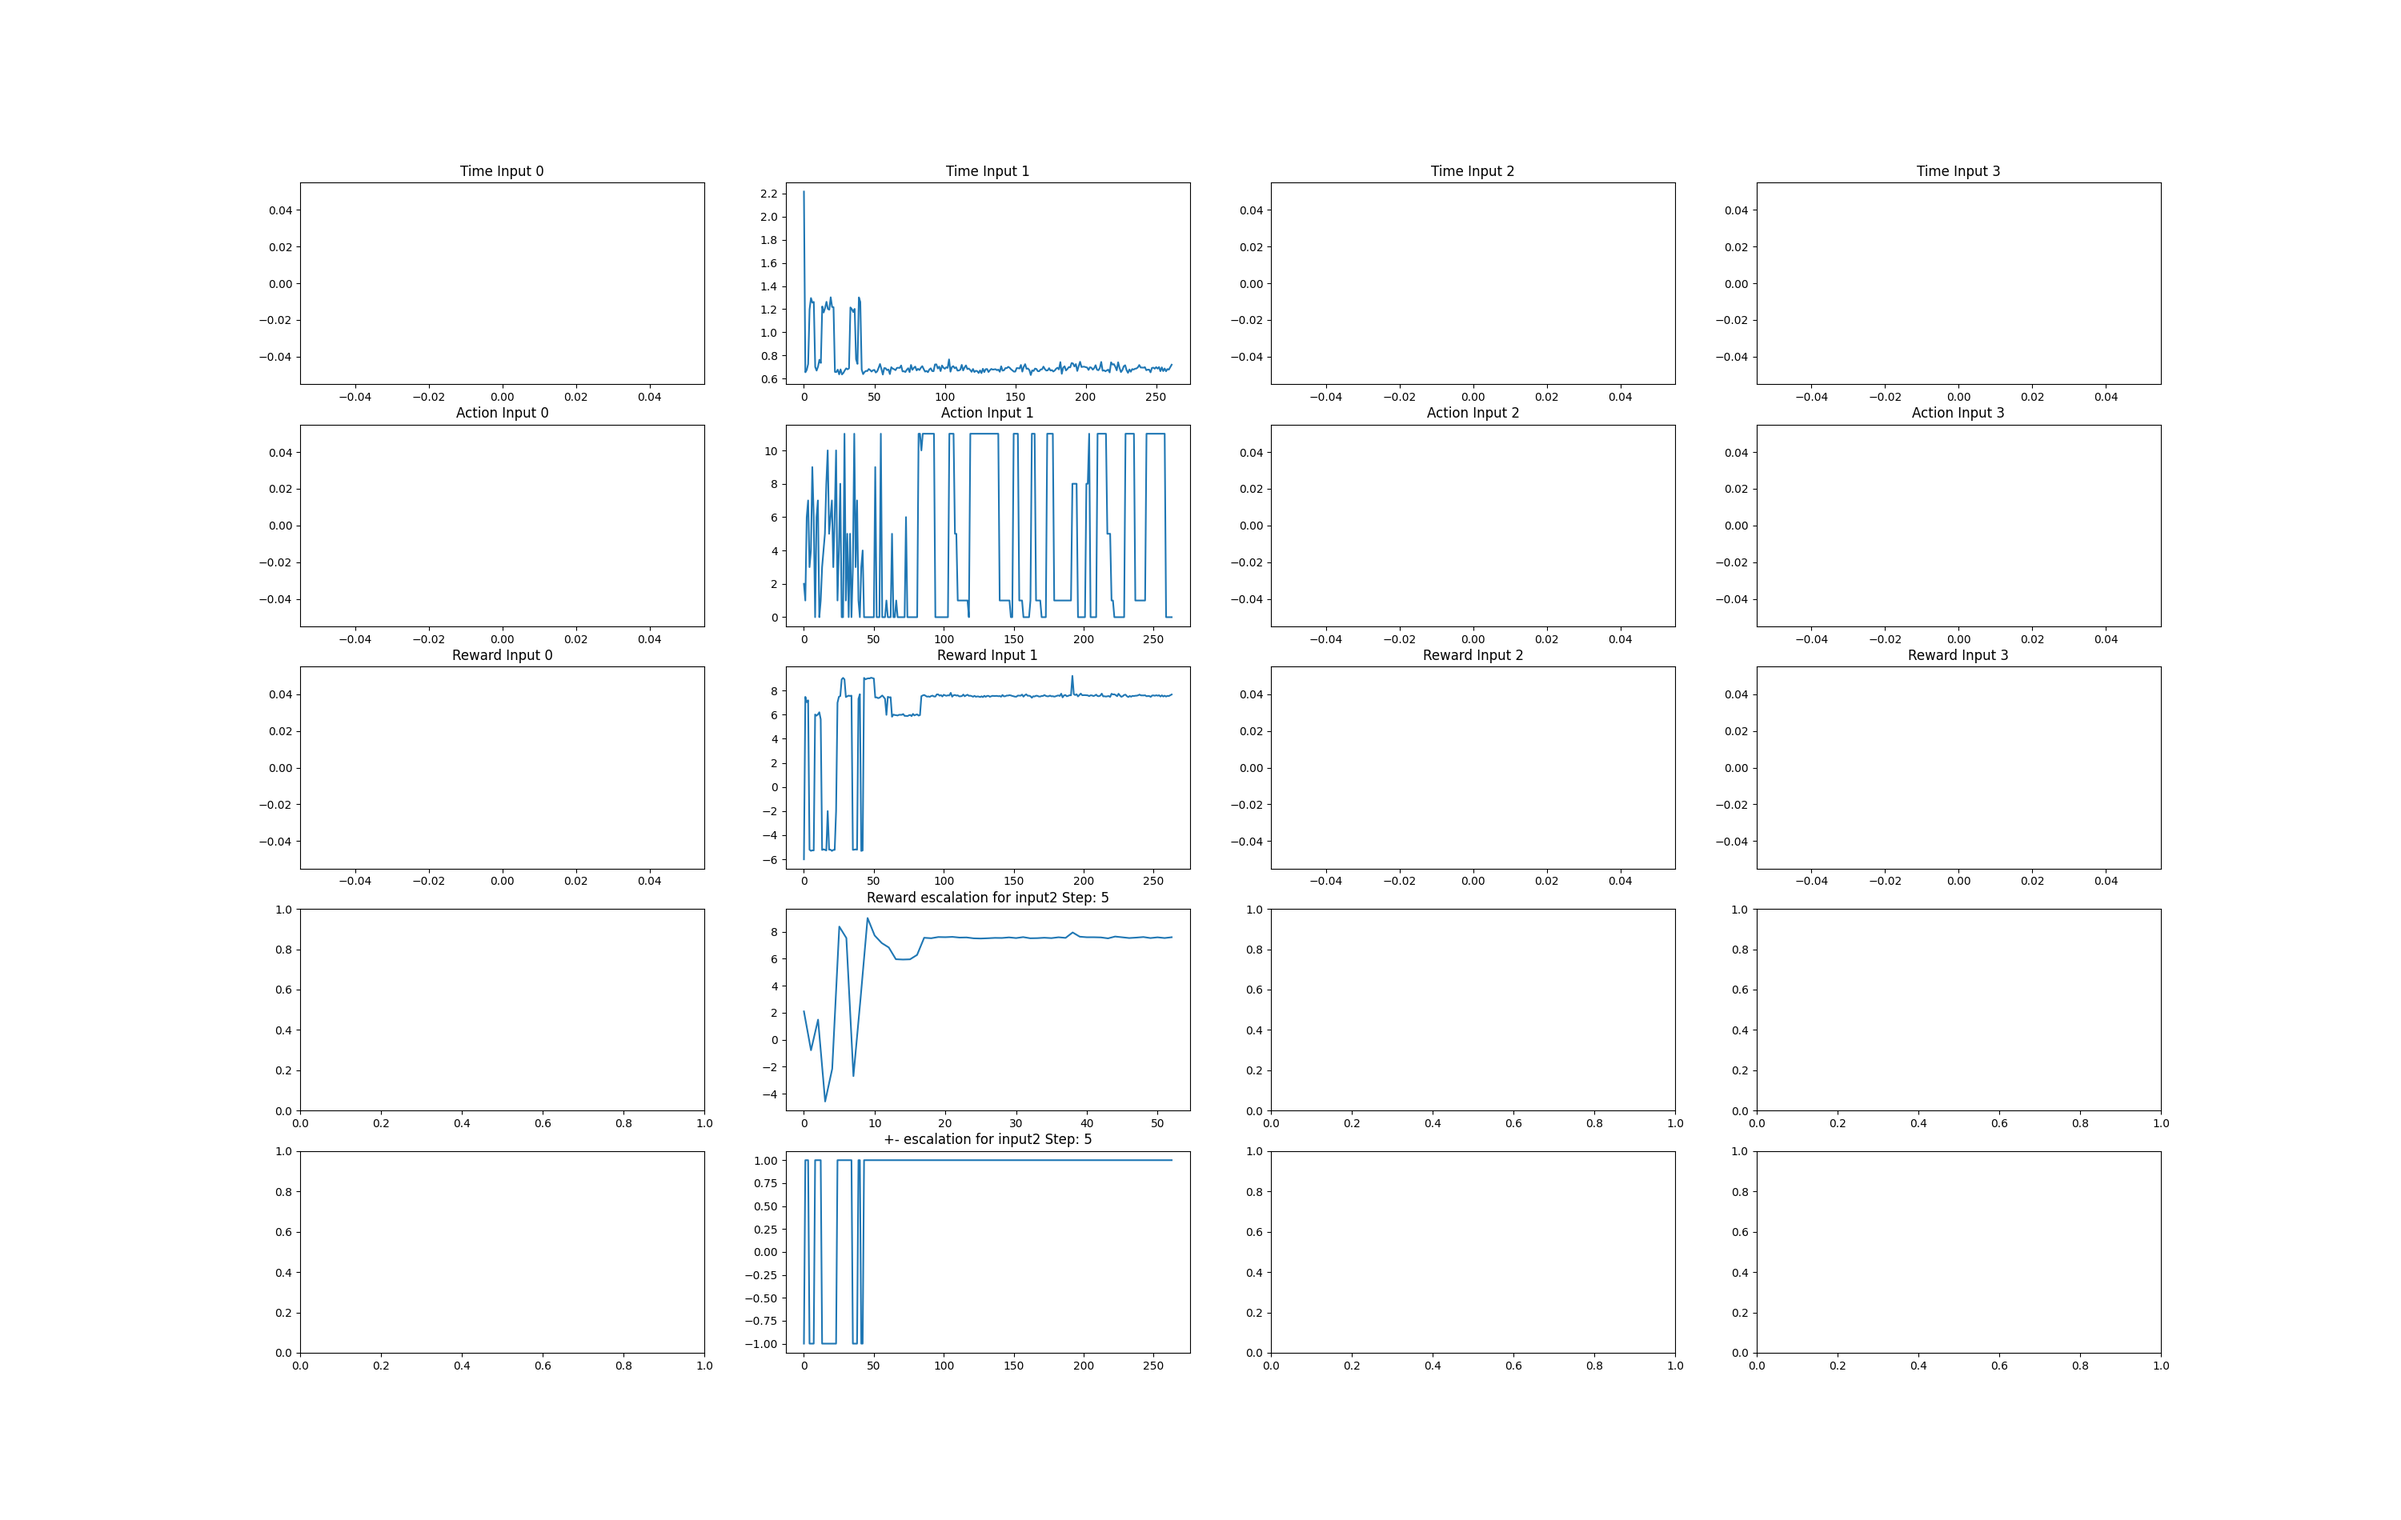
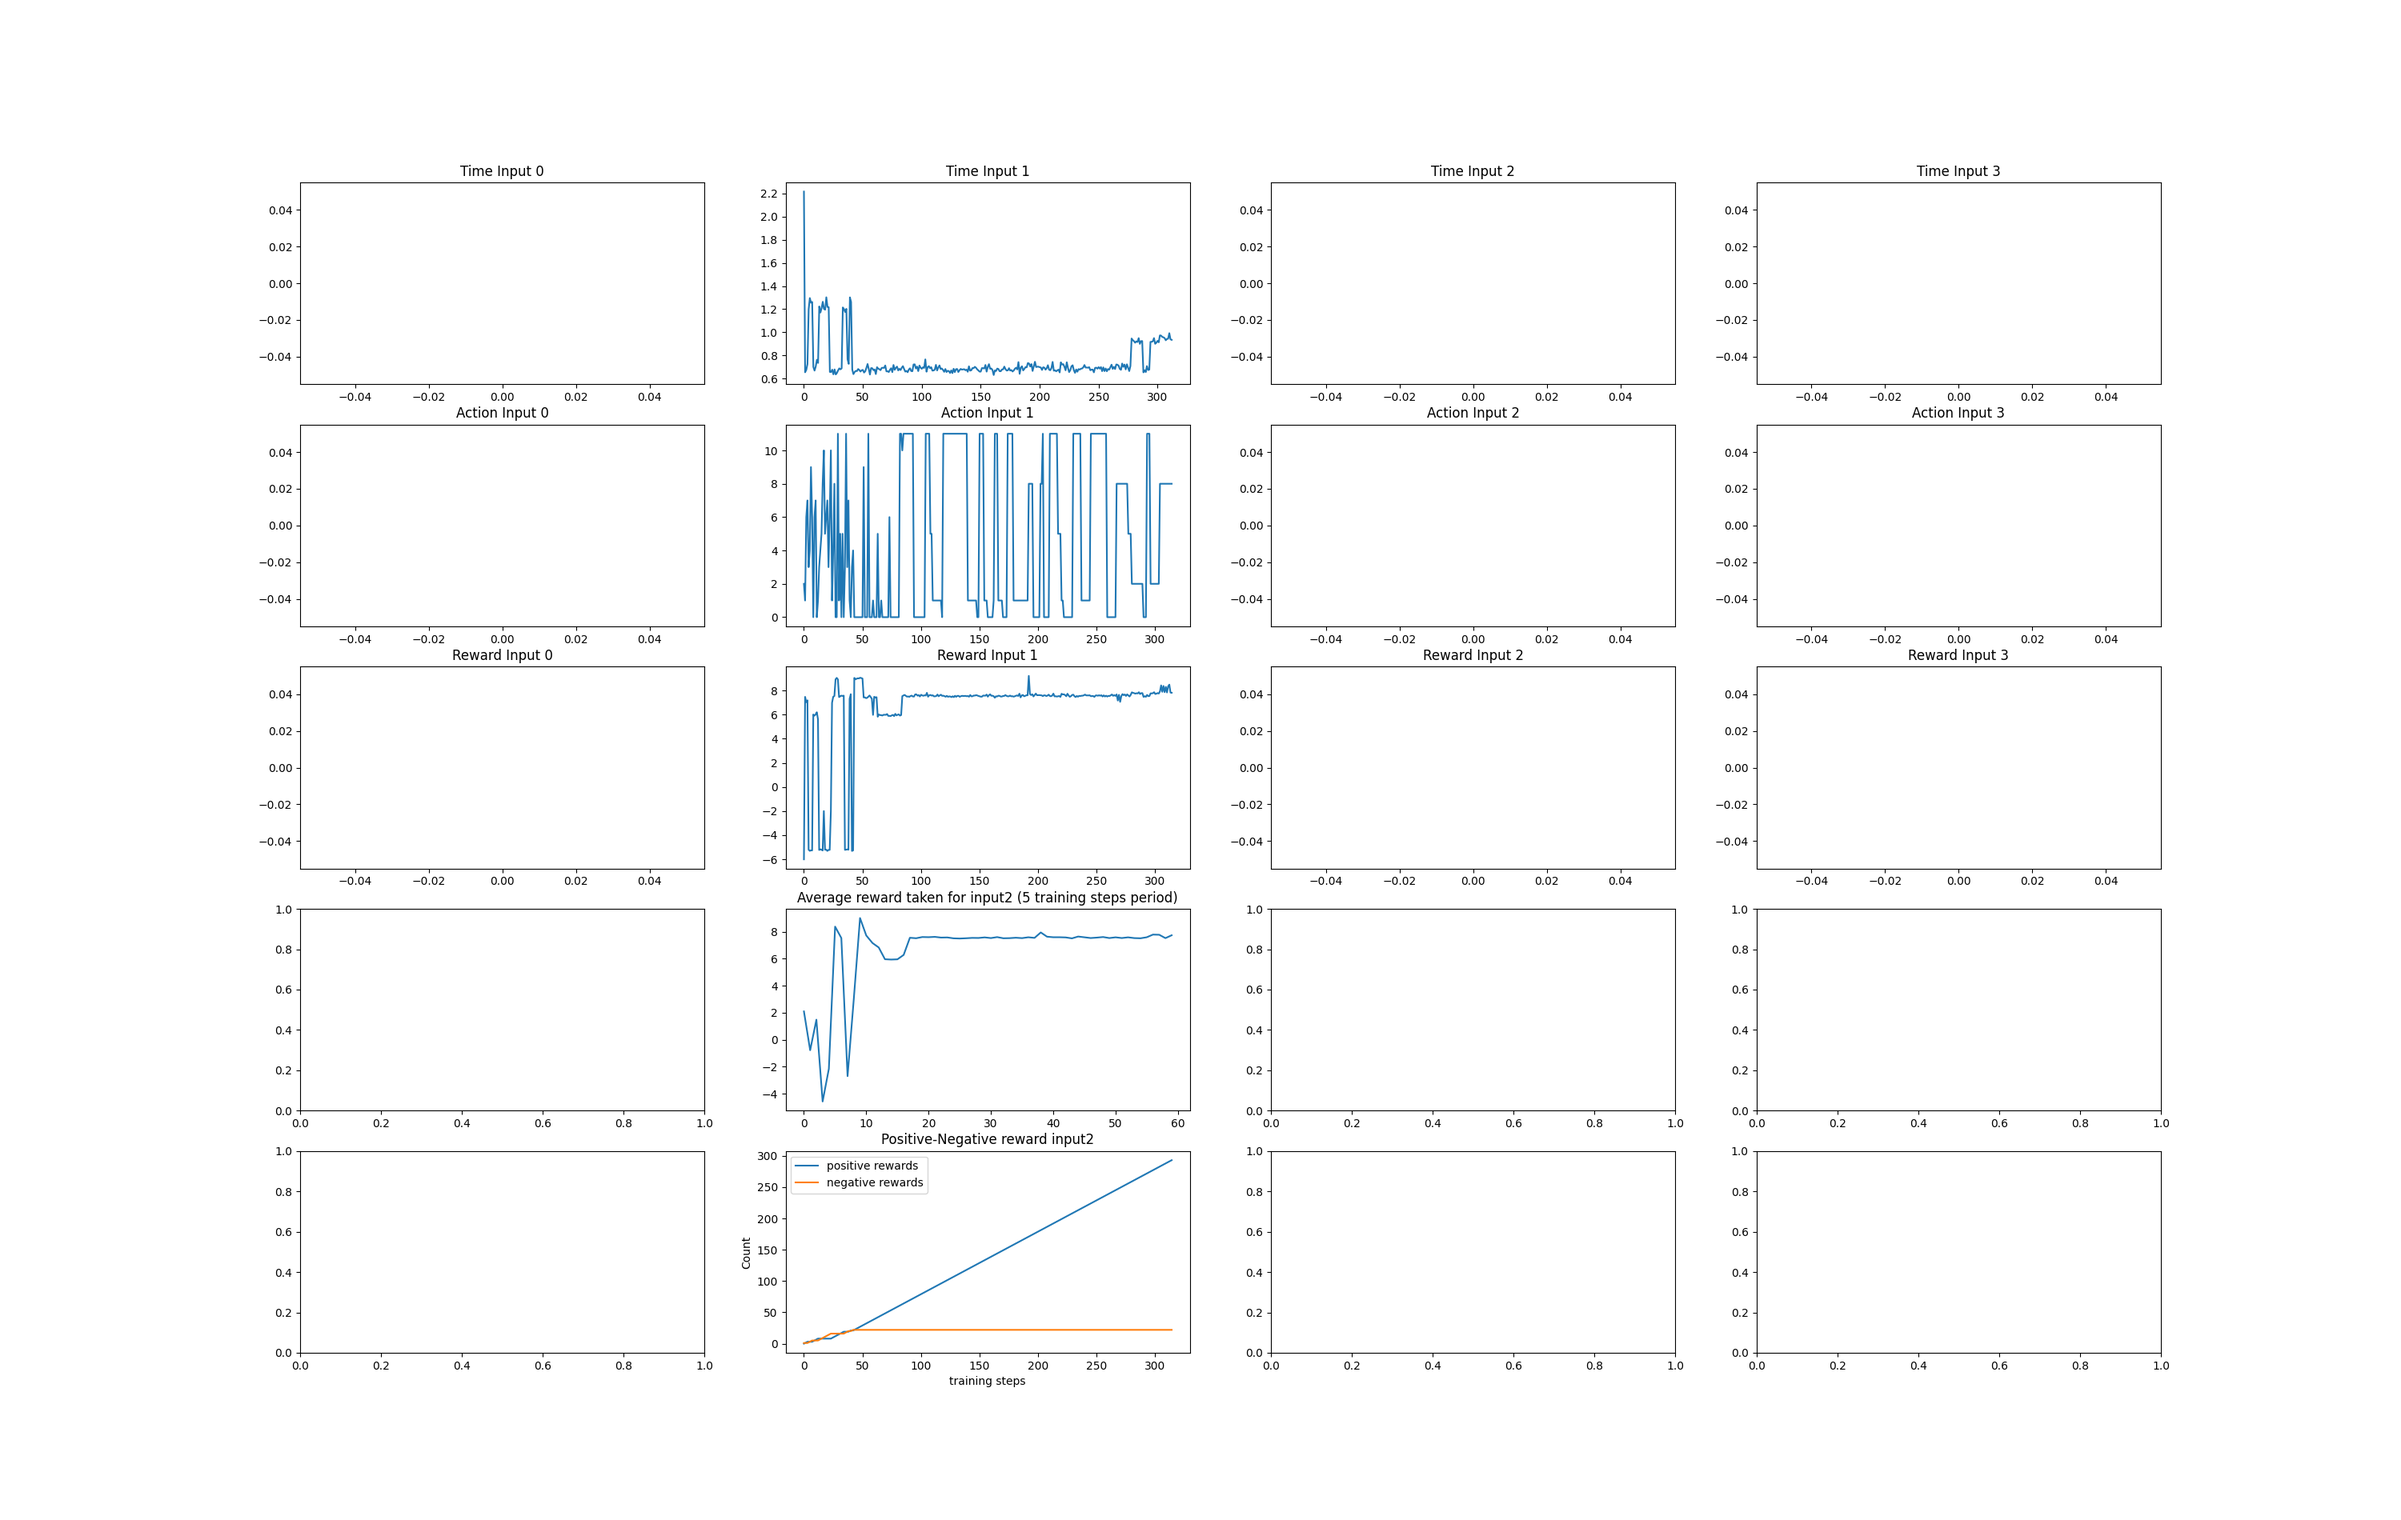
major

diff --git a/Dynamic-Version-Scheduler/src/scheduler2.py b/Dynamic-Version-Scheduler/src/scheduler2.py
@@ -21,12 +21,16 @@ EVENTS = ['IPC', 'MEM_READ', 'MEM_WRITE', 'L3M', 'C0RES', 'C1RES', 'NOT_C0RES_C1
 rewardLogger, actionLogger, timeLogger, stateLogger = loggers.setupDataLoggers()
 
 class CustomEnv(gym.Env):
-    def __init__(self,):
+    def __init__(self, training=True, inputIndex=2, qos=29):
         super(CustomEnv, self).__init__()
 
         self.startingTime = round(time.time())
 
-        self.inputs = { 1: ['90', '7'], 2: ['40', '16'], 3: ['20', '32'], 4: ['10', '65']}
+        self.training = training
+        self.inputIndex = inputIndex
+        self.qos = qos
+
+        self.inputs = {1: ['90', '7'], 2: ['40', '16'], 3: ['20', '32'], 4: ['10', '65']}
 
         self.iterationNumber = 0
         self.spread = 1
@@ -73,7 +77,7 @@ class CustomEnv(gym.Env):
     
      # @must
     def reset(self):
-        print('Reseting the state.')
+        print('Reseting the state back to initialization.')
         self.state[28:35] = [1.0, 1.0, 1.0, 1.0, 1.0, 15.0, 1.0]
         print('Init state \u27A9', self.state[28:33])
         return self.state
@@ -269,6 +273,7 @@ class CustomEnv(gym.Env):
         state_space.extend([int(state[-7]), int(state[-6]), int(state[-5]), int(state[-4]), int(state[-3]), int(state[-2]), int(state[-1])])
         return np.array(state_space)
     
+    #loading to the vectorState: pcm + containers_pos + containers_replicas + tMax + inputIndex
     def getState(self, pmc, qosTarget=0, inputIndex=0):
         state = [0] * 35
         for i in range(0, 4):
@@ -340,9 +345,13 @@ class CustomEnv(gym.Env):
 
     # @must
     def step(self, action):
-        tMax = self.state[-2]
-        #inputIndex = int(self.state[-1])
-        inputIndex = 2
+        '''
+        tMax = self.state[-2] inputIndex = int(self.state[-1])
+        self.qos = ...
+        self.inputIndex = ...
+        '''
+        tMax = self.qos
+        inputIndex = self.inputIndex
         time.sleep(1)
         _, scores = self.getMetrics(period=5)
         bestScoreIndex = self.findBestScore(scores)
@@ -357,47 +366,42 @@ class CustomEnv(gym.Env):
         else: 
             time.sleep(8.5)
             pmc, _ = self.getMetrics(period=5)
-            #newInputIndex = random.randint(1, 4)
-            newInputIndex = 2
-            #tMax = self.qosGenerator(inputIndex)
-            observedState = self.getState(pmc, 34, newInputIndex)
+            #newInputIndex = random.randint(1, 4) #tMax = self.qosGenerator(inputIndex)
+            newInputIndex = self.inputIndex
+            tMax = self.qos
+            observedState = self.getState(pmc, tMax, newInputIndex) #setting here the new state
             self.state = observedState
             reward = self.getReward(ignoredAction, latency, tMax)
             print('\u2219 tMax =', tMax, '\u2219 input-index =', inputIndex, '\u2219 bestScoreIndex =', bestScoreIndex, '\u2219 scores =', scores)
             print('\u2219 latency =', latency, '\u2219 reward =', reward, '\u2219 spread =', self.spread, '\u2219 replicas =', self.replicas)
             print('observed state after action \u27A9', observedState[28:33])
-            timeLogger.info("Time quotient is: " + str(latency / tMax) + "| input type: " + str(inputIndex) + "| time:" + stringTime)
+            timeLogger.info("Time quotient is: " + str(latency / tMax) + "| input type: " + str(inputIndex) + "| time:" + 
+                            stringTime + " | latency: " + str(latency) + " | tMax: ", str(tMax))
             
         stateLogger.info("State is: %s | time: %s" % (observedState, stringTime))
         rewardLogger.info("Reward is: " + str(reward) + "| input type: " + str(inputIndex) + "| time:" + stringTime)
         return observedState, reward, 0, {}
 
 
-dt = datetime.now().strftime("%m_%d_%H")
-Path("./models/%s" % dt).mkdir(parents=True, exist_ok=True)
-
-env = CustomEnv()
-
-policy_kwargs = dict(activation_fn=torch.nn.ReLU, net_arch=[256, 128, 64])
-
 #batch_size: # of tuples (s_t, r, a, s_t+1)to feed in an update rule
 #train_freq: every train_freq steps we perform a batch_training
 #target_update_interval: 
+#model = DQN.load("./models/06_19_12/rl_model_350_steps.zip", env)
+
+dt = datetime.now().strftime("%m_%d_%H")
+Path("./models/%s" % dt).mkdir(parents=True, exist_ok=True)
+env = CustomEnv(training=True, inputIndex=3, qos=44)
+policy_kwargs = dict(activation_fn=torch.nn.ReLU, net_arch=[256, 128, 64])
+
 model = DQN("MlpPolicy", env, policy_kwargs=policy_kwargs, verbose=1, train_freq=(1, "step"), learning_rate=0.0025, learning_starts=15,
             batch_size=32, buffer_size=1000000, target_update_interval=60, gamma=0.99, exploration_fraction=0.2, 
             exploration_initial_eps=1, exploration_final_eps=0.01, tensorboard_log="./logs/%s/" % dt)
 
-
-#model = DQN.load("./models/06_06_10/model_final.zip", env)
-
 if __name__ == "__main__":
-    total_timesteps = 400
-    checkpoint_callback = CheckpointCallback(save_freq=75, save_path="./models/%s/" % (dt))
+    total_timesteps = 480
+    checkpoint_callback = CheckpointCallback(save_freq=80, save_path="./models/%s/" % (dt))
     model.learn(total_timesteps=total_timesteps, callback=checkpoint_callback)
     model.save("./models/%s/model_final.zip" % (dt))
-    
-    #for i in range(1, 2):
-        #model.learn(total_timesteps=totalTimesteps)
-        #model.save("./models/%s/model_%s.zip" % (dt, i))
+
 # na logarw sta log files kai vlepoume me grep
 # na tsekarw an logarei sto telos twn total_timesteps tipota....(ana episode diladi)

diff --git a/Dynamic-Version-Scheduler/src/parser.py b/Dynamic-Version-Scheduler/src/parser.py
@@ -1,6 +1,7 @@
 import json
 from statistics import mean
 import matplotlib.pyplot as plt
+import numpy as np
 
 def most_frequent(List):
     return max(set(List), key = List.count)
@@ -93,9 +94,13 @@ def mergeResults(c, versions):
         return []
 
 def parseRewards(reward_data):
-    rewards = ([], [], [], [])
+    rewards = ([], [], [], [], [])
     for reward in reward_data:
         rewards[reward['input'] - 1].append(reward['reward'])
+        if (int(reward['reward']) > 0):
+            rewards[4].append(1)
+        else:
+            rewards[4].append(-1)
     return rewards
 
 def parseTimes(time_data):
@@ -104,30 +109,21 @@ def parseTimes(time_data):
         times[time['input'] - 1].append(time['time_quotient'])
     return times
 
-
 def parseActions(action_data):
     actions = ([], [], [], [])
     for action in action_data:
         actions[action['input'] - 1].append(action['action'])
     return actions
 
-#versions = ['05_23_15', '05_23_19', '05_23_21', '05_24_11']
-#versions = ['05_20_15', '05_20_18', '05_23_12']
-#versions = ['05_31_11', '06_01_09', '06_01_13']
-#versions = ['06_05_14', '06_05_21']
-#versions = ['06_06_10', '06_06_14']
-#versions = ['06_06_20']
-#versions = ['06_07_11']
 #versions = ['06_11_20']
 #versions = ['06_16_10'] #512... #explor_factor=0.1
 #versions = ['06_16_18']
 #versions = ['06_17_01']
-versions = ['06_18_14']
-'''
-model = DQN("MlpPolicy", env, policy_kwargs=policy_kwargs, verbose=1, train_freq=(1, "step"), learning_rate=0.0025, learning_starts=15,
-            batch_size=32, buffer_size=1000000, target_update_interval=50, gamma=0.99, exploration_fraction=0.15, 
-            exploration_initial_eps=1, exploration_final_eps=0.01, tensorboard_log="./logs/%s/" % dt)
-'''
+#versions = ['06_18_14'] #gia single-qos = 34.0 sec - input=2
+#versions = ['06_18_21'] #gia ginglq-qos = 29.0 sec - input=2
+#versions = ['06_19_06']
+#versions = ['06_19_12']
+versions = ['06_19_19']
 time = mergeResults('t', versions)
 time2 = parseTimes(time)
 
@@ -136,6 +132,13 @@ action2 = parseActions(action)
 
 reward = mergeResults('r', versions)
 reward2 = parseRewards(reward)
+
+frequency = {}
+for item in action2[2]:
+   if item in frequency:
+      frequency[item] += 1
+   else:
+      frequency[item] = 1
 
 figure, axis = plt.subplots(5, 4, figsize=(30, 19))
 axis[0, 0].plot(time2[0])
@@ -174,40 +177,47 @@ axis[2, 2].set_title('Reward Input 2')
 axis[2, 3].plot(reward2[3])
 axis[2, 3].set_title('Reward Input 3')
 
-
 print('FOR VERSIONS:', str(versions))
 print('action-len =', len(action), ', time-len =', len(time), ', reward-len =', len(reward))
 print('TIMES AVG / 100 STEPS:', my_mean(time2[1][0:100]), my_mean(time2[1][100:200]), my_mean(time2[1][200:300]), my_mean(time2[1][300:400]))
 print('REWARDS AVG / 100 STEPS:', my_mean(reward2[1][0:100]), my_mean(reward2[1][100:200]), my_mean(reward2[1][200:300]), my_mean(reward2[1][300:400]))
+print('ACTIONS SELECTED FREQUENCY:', {k: v for k, v in sorted(frequency.items(), key=lambda item: item[1])})
 vals = []
 for i in range(0, 300, 5):
-    a = my_mean(reward2[1][(i):(i+5)])
+    a = my_mean(reward2[2][(i):(i+5)])
     vals.append(a)
 
-axis[3,1].plot(vals)
-axis[3, 1].set_title('Reward escalation for input2 Step: 5')
 
-frequency = {}
-for item in action2[1]:
-   if item in frequency:
-      frequency[item] += 1
-   else:
-      frequency[item] = 1
+axis[3,2].plot(vals)
+axis[3, 2].set_title('Average reward taken for input2 (5 training steps period)')
 
-print('ACTIONS SELECTED FREQUENCY:', {k: v for k, v in sorted(frequency.items(), key=lambda item: item[1])})
+reward_sign = reward2[4]
+print('VIOLATIONS: ', len(reward_sign)-reward_sign.count(1), 'out of', len(reward_sign))
 
-print('Violations')
-t = []
-count = 0
-for i in range(0, len(reward2[1])):
-    if (int(reward2[1][i]) > 0):
-        t.append(1)
-        count += 1
+#axis[3,1].plot(vals)
+
+y1, y2 = [], []
+
+i = 0
+minus_ones, ones = 0, 0
+for i in range(len(reward_sign)):
+    if (reward_sign[i] == 1):
+        ones += 1
     else:
-        t.append(-1)
-print(t, count, len(t)-count)
-axis[4,1].plot(t)
-axis[4, 1].set_title('+- escalation for input2 Step: 5')
-#print(mean(time2[0]), mean(time2[1]))
+        minus_ones += 1
+    y1.append(ones)
+    y2.append(minus_ones)
+
+axis[4, 2].set_xlabel('training steps')
+axis[4, 2].set_ylabel('Count')
+axis[4, 2].plot(y1, label='positive rewards')
+axis[4, 2].plot(y2, label='negative rewards')
+axis[4, 2].set_title('Positive-Negative reward input2')
+axis[4, 2].legend()
+#axis[4, 1].hist([y1, y2],color=colors, bins=62, label=['positive_rewards', 'negative_rewards'])
+#axis[4, 1].set_xlim(-5,8)
+#axis[4, 1].set_ylabel("Count")
+#axis[4,1].plot(reward_sign)
+#axis[4, 1].set_title('Positive-Negative reward input2')
 plt.show()
 plt.savefig('../images/' + versions[0] + '.png')

diff --git a/Dynamic-Version-Scheduler/src/trained.py b/Dynamic-Version-Scheduler/src/trained.py
@@ -16,27 +16,17 @@ import json
 from scheduler import CustomEnv
 
 
-    
-#customEnv = CustomEnv()
+myenv = CustomEnv(training=False, inputIndex=2, qos=29)
 models_dir = "./models/"
-model_path = f"{models_dir}/05_20_13/model_final.zip"
+model_path = f"{models_dir}/06_18_14/rl_model_300_steps.zip"
 
-#model = DQN.load(model_path, env=customEnv)
-model = DQN.load(model_path, env=CustomEnv())
-'''
-episodes = 5
+model = DQN.load(model_path, myenv)
 
-
-for ep in range(episodes):
-    obs = customEnv.reset()
-
+#obs = myenv.reset()
+i = 0
+while i < 5:
     action, _ = model.predict(obs)
-    obs, reward, done, info = customEnv.step(action)
+    obs, reward, done, info = myenv.step(action)
     print(obs, reward, done, info)
+    i += 1
 
-customEnv.close()
-'''
-
-
-print(model.get_parameters())
-print('SOOOOOOOOOOOOOOOOOOOOOOS')
